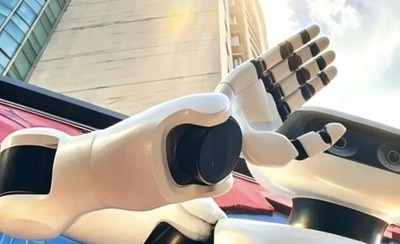
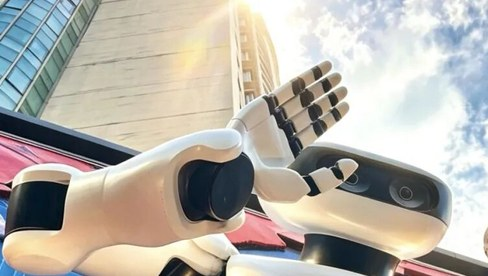
Add files via upload

diff --git a/index.html b/index.html
@@ -508,7 +508,7 @@ html[lang="zh-CN"] h1,html[lang="zh-CN"] h2,html[lang="zh-CN"] .cols h3,html[lan
 
         <article>
           <div class="dh"><b data-zh="第 3 天">3일차</b><span data-zh="1 月 29 日 · 技术在卖东西的地方">1월 29일 · 기술이 물건을 파는 곳</span></div>
-          <div class="stops"><article><figure class="g2"><img src="p-museum.jpg" width="1024" height="682" alt="상하이 과학기술관 전경" loading="lazy"><img src="p-plaza.jpg" width="1000" height="750" alt="상하이 과학기술관 앞 광장" loading="lazy"></figure><div><h4 data-zh="上海科技馆">상하이 과학기술관</h4><p data-zh="历经近三年升级改造、于 2026 年焕新开馆的国家一级博物馆。十大常设展区中重点参观 AI 与机器人专区，涵盖群智机器人、机械外骨骼、脑机接口等前沿成果。全馆 926 件展品中约八成为可互动展项。">3년에 가까운 리모델링을 마치고 2026년 재개관한 국가 1급 박물관입니다. 10개 상설 전시구역 가운데 AI·로봇 전문 구역을 집중해서 봅니다. 군집 로봇과 외골격, 뇌-기계 인터페이스 같은 최신 성과를 다루며, 전시품 926건 가운데 약 80%가 직접 조작할 수 있는 인터랙티브 전시입니다.</p><ul class="tags"><li data-zh="互动展项">인터랙티브 전시</li><li data-zh="机器人世界">로봇 세계</li><li data-zh="宇宙与生命科学">우주 · 생명과학</li><li data-zh="八成展品可体验">전시품 80% 체험형</li></ul><div class="doing"><b data-zh="课程内容">수업 내용</b><ul><li data-zh="集中参观 AI 与机器人专区">AI·로봇 전문 구역 집중 관람</li><li data-zh="体验群智机器人、机械外骨骼、脑机接口展项">군집 로봇·외골격·뇌-기계 인터페이스 전시 체험</li><li data-zh="由孩子讲出印象最深的一件展品">가장 인상 깊었던 전시를 아이가 직접 설명하기</li></ul></div></div></article><article><figure class="g2"><img src="p-arm.jpg" width="660" height="495" alt="물류 작업을 하는 산업용 휴머노이드" loading="lazy"><img src="p-parts.jpg" width="1200" height="900" alt="휴머노이드 부품 구성 설명도" loading="lazy"></figure><div><h4 data-zh="人形机器人企业总部">휴머노이드 로봇 기업 본사</h4><p data-zh="成立于 2023 年的工业人形机器人企业总部展厅。双臂最大负载 30kg，充电一小时可运行八小时，核心零部件约 80% 自研。同时运营具身智能研究院，推进在制造与物流现场的商业化落地。">2023년 설립된 산업용 휴머노이드 기업의 본사 전시장입니다. 양팔 최대 30kg을 들고, 한 시간 충전으로 여덟 시간 가동하며, 핵심 부품의 약 80%를 자체 개발합니다. 임바디드 AI 연구원을 함께 운영하며 제조와 물류 현장으로의 상용화를 추진하고 있습니다.</p><ul class="tags"><li data-zh="工业人形机器人">산업용 휴머노이드</li><li data-zh="双臂负载 30kg">양팔 하중 30kg</li><li data-zh="充电 1 小时运行 8 小时">1시간 충전 8시간 가동</li><li data-zh="零部件 80% 自研">부품 80% 자체 개발</li><li data-zh="具身智能研究院">임바디드 AI 연구원</li></ul><div class="doing"><b data-zh="课程内容">수업 내용</b><ul><li data-zh="在总部展厅近距离观看工业人形机器人">본사 전시장에서 산업용 휴머노이드 근접 관람</li><li data-zh="观察物流与制造的动作演示">물류·제조 동작 시연 관찰</li><li data-zh="听取主要零部件与核心技术的讲解">주요 부품과 핵심 기술 설명 청취</li></ul></div></div></article><article><figure><img src="p-cream.jpg" width="400" height="244" alt="디저트 매장 앞에 설치된 로봇의 팔과 손" loading="lazy"></figure><div><h4 data-zh="机器人制作甜品门店">로봇 조리 디저트 매장</h4><p data-zh="在正常营业的门店内，由人形机器人全自动完成冰淇淋的制作流程。从取杯、投料、高速搅拌，到倒杯不洒的收尾动作，机械臂连贯完成数十个精密步骤。">실제 영업 중인 매장에서 휴머노이드 로봇이 아이스크림 제조 전 과정을 자동으로 수행합니다. 컵 분리와 재료 투하, 고속 교반을 거쳐 컵을 뒤집어도 쏟아지지 않는 마무리까지, 수십 단계의 정밀 동작을 로봇 팔이 이어 갑니다.</p><ul class="tags"><li data-zh="机器人全自动制作">로봇 전자동 조리</li><li data-zh="数十个精密动作">정밀 동작 수십 단계</li><li data-zh="营业中的门店">영업 중 매장</li></ul><div class="doing"><b data-zh="课程内容">수업 내용</b><ul><li data-zh="观看机器人制作冰淇淋的全过程">로봇이 아이스크림을 만드는 전 과정 관람</li><li data-zh="品尝机器人制作的甜品与饮料">로봇이 만든 디저트와 음료 시식</li><li data-zh="了解机器人服务在日常门店中的运作方式">로봇 서비스가 일상 매장에서 작동하는 방식 확인</li></ul></div></div></article><article><figure class="g2"><img src="p-shelf.jpg" width="750" height="562" alt="로봇 제품이 진열된 매장" loading="lazy"><img src="p-zone.jpg" width="600" height="339" alt="로봇이 운영하는 전자제품 매장 내부" loading="lazy"></figure><div><h4 data-zh="机器人运营的科技卖场">로봇 운영 테크 매장</h4><p data-zh="由机器人代替人工运营的电子产品卖场。内设消费级机器人体验馆，可近距离观看并操作人形与四足机器人；家电、3C 设备与 3D 打印产品也可上手体验。">사람 대신 로봇이 매장을 운영하는 전자제품 매장입니다. 소비급 로봇 체험관이 함께 들어서 있어 휴머노이드와 사족보행 로봇을 가까이에서 보고 조작해 볼 수 있고, 가전과 3C 기기, 3D 프린팅 제품도 직접 만져 볼 수 있습니다.</p><ul class="tags"><li data-zh="无人运营">무인 운영</li><li data-zh="消费级机器人体验馆">소비급 로봇 체험관</li><li data-zh="3C 与家电">3C · 가전</li><li data-zh="3D 打印">3D 프린팅</li></ul><div class="doing"><b data-zh="课程内容">수업 내용</b><ul><li data-zh="观察由机器人运营的门店动线">로봇이 운영하는 매장 동선 관찰</li><li data-zh="近距离观看人形与四足机器人并互动">휴머노이드·사족보행 로봇 근접 관람과 인터랙션</li><li data-zh="比较人的工作与机器人的工作如何分工">사람의 일과 로봇의 일이 어떻게 나뉘는지 비교</li></ul></div></div></article><article><figure class="g2"><img src="p-show.jpg" width="960" height="720" alt="쇼룸에 서 있는 휴머노이드 로봇" loading="lazy"><img src="p-three.jpg" width="750" height="506" alt="나란히 선 휴머노이드 로봇 세 대" loading="lazy"></figure><div><h4 data-zh="具身智能旗舰店">임바디드 AI 플래그십 매장</h4><p data-zh="亚洲首家具身智能体验门店。消费级人形机器人与四足机器人在这里不是展品而是在售商品，可在观看机器人动作表演后，在店员指引下用语音指令亲自操控机器人。">아시아에 처음 문을 연 임바디드 AI 체험 매장입니다. 소비자용 휴머노이드와 사족보행 로봇이 전시물이 아니라 판매 상품으로 놓여 있고, 로봇 동작 공연을 본 뒤 직원 안내에 따라 음성 명령으로 로봇을 직접 움직여 볼 수 있습니다.</p><ul class="tags"><li data-zh="亚洲首店">아시아 1호점</li><li data-zh="人形与四足机器人">휴머노이드 · 사족보행 로봇</li><li data-zh="机器人动作表演">로봇 동작 공연</li><li data-zh="语音控制体验">음성 제어 체험</li></ul><div class="doing"><b data-zh="课程内容">수업 내용</b><ul><li data-zh="近距离观看人形与四足机器人">휴머노이드·사족보행 로봇 근접 관람</li><li data-zh="观看机器人表演与动作展示">로봇 퍼포먼스와 동작 공연 관람</li><li data-zh="用语音控制亲自尝试机器人动作">음성 제어로 로봇 동작 직접 시도</li></ul></div></div></article></div>
+          <div class="stops"><article><figure class="g2"><img src="p-museum.jpg" width="1024" height="682" alt="상하이 과학기술관 전경" loading="lazy"><img src="p-plaza.jpg" width="1000" height="750" alt="상하이 과학기술관 앞 광장" loading="lazy"></figure><div><h4 data-zh="上海科技馆">상하이 과학기술관</h4><p data-zh="历经近三年升级改造、于 2026 年焕新开馆的国家一级博物馆。十大常设展区中重点参观 AI 与机器人专区，涵盖群智机器人、机械外骨骼、脑机接口等前沿成果。全馆 926 件展品中约八成为可互动展项。">3년에 가까운 리모델링을 마치고 2026년 재개관한 국가 1급 박물관입니다. 10개 상설 전시구역 가운데 AI·로봇 전문 구역을 집중해서 봅니다. 군집 로봇과 외골격, 뇌-기계 인터페이스 같은 최신 성과를 다루며, 전시품 926건 가운데 약 80%가 직접 조작할 수 있는 인터랙티브 전시입니다.</p><ul class="tags"><li data-zh="互动展项">인터랙티브 전시</li><li data-zh="机器人世界">로봇 세계</li><li data-zh="宇宙与生命科学">우주 · 생명과학</li><li data-zh="八成展品可体验">전시품 80% 체험형</li></ul><div class="doing"><b data-zh="课程内容">수업 내용</b><ul><li data-zh="集中参观 AI 与机器人专区">AI·로봇 전문 구역 집중 관람</li><li data-zh="体验群智机器人、机械外骨骼、脑机接口展项">군집 로봇·외골격·뇌-기계 인터페이스 전시 체험</li><li data-zh="由孩子讲出印象最深的一件展品">가장 인상 깊었던 전시를 아이가 직접 설명하기</li></ul></div></div></article><article><figure class="g2"><img src="p-arm.jpg" width="660" height="495" alt="물류 작업을 하는 산업용 휴머노이드" loading="lazy"><img src="p-parts.jpg" width="1200" height="900" alt="휴머노이드 부품 구성 설명도" loading="lazy"></figure><div><h4 data-zh="人形机器人企业总部">휴머노이드 로봇 기업 본사</h4><p data-zh="成立于 2023 年的工业人形机器人企业总部展厅。双臂最大负载 30kg，充电一小时可运行八小时，核心零部件约 80% 自研。同时运营具身智能研究院，推进在制造与物流现场的商业化落地。">2023년 설립된 산업용 휴머노이드 기업의 본사 전시장입니다. 양팔 최대 30kg을 들고, 한 시간 충전으로 여덟 시간 가동하며, 핵심 부품의 약 80%를 자체 개발합니다. 임바디드 AI 연구원을 함께 운영하며 제조와 물류 현장으로의 상용화를 추진하고 있습니다.</p><ul class="tags"><li data-zh="工业人形机器人">산업용 휴머노이드</li><li data-zh="双臂负载 30kg">양팔 하중 30kg</li><li data-zh="充电 1 小时运行 8 小时">1시간 충전 8시간 가동</li><li data-zh="零部件 80% 自研">부품 80% 자체 개발</li><li data-zh="具身智能研究院">임바디드 AI 연구원</li></ul><div class="doing"><b data-zh="课程内容">수업 내용</b><ul><li data-zh="在总部展厅近距离观看工业人形机器人">본사 전시장에서 산업용 휴머노이드 근접 관람</li><li data-zh="观察物流与制造的动作演示">물류·제조 동작 시연 관찰</li><li data-zh="听取主要零部件与核心技术的讲解">주요 부품과 핵심 기술 설명 청취</li></ul></div></div></article><article><figure><img src="p-cream.jpg" width="488" height="276" alt="디저트 매장 앞에 설치된 로봇의 팔과 손" loading="lazy"></figure><div><h4 data-zh="机器人制作甜品门店">로봇 조리 디저트 매장</h4><p data-zh="在正常营业的门店内，由人形机器人全自动完成冰淇淋的制作流程。从取纸杯、套杯圈、投料到高速搅拌，再到倒杯不洒的收尾，共 55 个连续步骤，其中 98% 有触觉反馈直接参与。营业时间内全程无需人工操控。">실제 영업 중인 매장에서 휴머노이드 로봇이 아이스크림 제조 전 과정을 자동으로 수행합니다. 종이컵 분리와 컵 링 결합, 재료 투하, 고속 교반을 거쳐 컵을 뒤집어도 쏟아지지 않는 마무리까지 55단계가 끊김 없이 이어지고, 그 가운데 98%에 촉각 피드백이 직접 관여합니다. 매장 영업시간 내내 사람의 조작 없이 혼자 일합니다.</p><ul class="tags"><li data-zh="机器人全自动制作">로봇 전자동 조리</li><li data-zh="55 个连续步骤">55단계 연속 작업</li><li data-zh="98% 有触觉参与">촉각 피드백 98%</li><li data-zh="营业中的门店">영업 중 매장</li></ul><div class="doing"><b data-zh="课程内容">수업 내용</b><ul><li data-zh="观看机器人制作冰淇淋的全过程">로봇이 아이스크림을 만드는 전 과정 관람</li><li data-zh="品尝机器人制作的甜品与饮料">로봇이 만든 디저트와 음료 시식</li><li data-zh="了解机器人服务在日常门店中的运作方式">로봇 서비스가 일상 매장에서 작동하는 방식 확인</li></ul></div></div></article><article><figure class="g2"><img src="p-shelf.jpg" width="750" height="562" alt="로봇 제품이 진열된 매장" loading="lazy"><img src="p-zone.jpg" width="600" height="339" alt="로봇이 운영하는 전자제품 매장 내부" loading="lazy"></figure><div><h4 data-zh="机器人运营的科技卖场">로봇 운영 테크 매장</h4><p data-zh="由机器人代替人工运营的电子产品卖场。内设消费级机器人体验馆，可近距离观看并操作人形与四足机器人；家电、3C 设备与 3D 打印产品也可上手体验。">사람 대신 로봇이 매장을 운영하는 전자제품 매장입니다. 소비급 로봇 체험관이 함께 들어서 있어 휴머노이드와 사족보행 로봇을 가까이에서 보고 조작해 볼 수 있고, 가전과 3C 기기, 3D 프린팅 제품도 직접 만져 볼 수 있습니다.</p><ul class="tags"><li data-zh="无人运营">무인 운영</li><li data-zh="消费级机器人体验馆">소비급 로봇 체험관</li><li data-zh="3C 与家电">3C · 가전</li><li data-zh="3D 打印">3D 프린팅</li></ul><div class="doing"><b data-zh="课程内容">수업 내용</b><ul><li data-zh="观察由机器人运营的门店动线">로봇이 운영하는 매장 동선 관찰</li><li data-zh="近距离观看人形与四足机器人并互动">휴머노이드·사족보행 로봇 근접 관람과 인터랙션</li><li data-zh="比较人的工作与机器人的工作如何分工">사람의 일과 로봇의 일이 어떻게 나뉘는지 비교</li></ul></div></div></article><article><figure class="g2"><img src="p-show.jpg" width="960" height="720" alt="쇼룸에 서 있는 휴머노이드 로봇" loading="lazy"><img src="p-three.jpg" width="750" height="506" alt="나란히 선 휴머노이드 로봇 세 대" loading="lazy"></figure><div><h4 data-zh="具身智能旗舰店">임바디드 AI 플래그십 매장</h4><p data-zh="亚洲首家具身智能体验门店。消费级人形机器人与四足机器人在这里不是展品而是在售商品，可在观看机器人动作表演后，在店员指引下用语音指令亲自操控机器人。">아시아에 처음 문을 연 임바디드 AI 체험 매장입니다. 소비자용 휴머노이드와 사족보행 로봇이 전시물이 아니라 판매 상품으로 놓여 있고, 로봇 동작 공연을 본 뒤 직원 안내에 따라 음성 명령으로 로봇을 직접 움직여 볼 수 있습니다.</p><ul class="tags"><li data-zh="亚洲首店">아시아 1호점</li><li data-zh="人形与四足机器人">휴머노이드 · 사족보행 로봇</li><li data-zh="机器人动作表演">로봇 동작 공연</li><li data-zh="语音控制体验">음성 제어 체험</li></ul><div class="doing"><b data-zh="课程内容">수업 내용</b><ul><li data-zh="近距离观看人形与四足机器人">휴머노이드·사족보행 로봇 근접 관람</li><li data-zh="观看机器人表演与动作展示">로봇 퍼포먼스와 동작 공연 관람</li><li data-zh="用语音控制亲自尝试机器人动作">음성 제어로 로봇 동작 직접 시도</li></ul></div></div></article></div>
         </article>
 
         <article>
